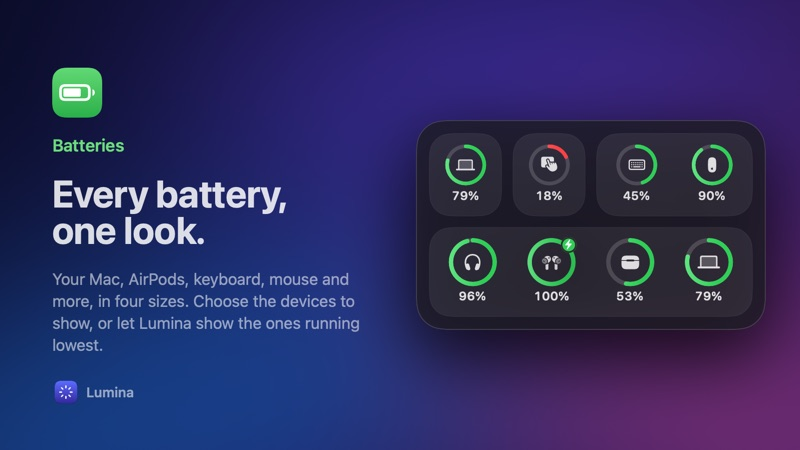
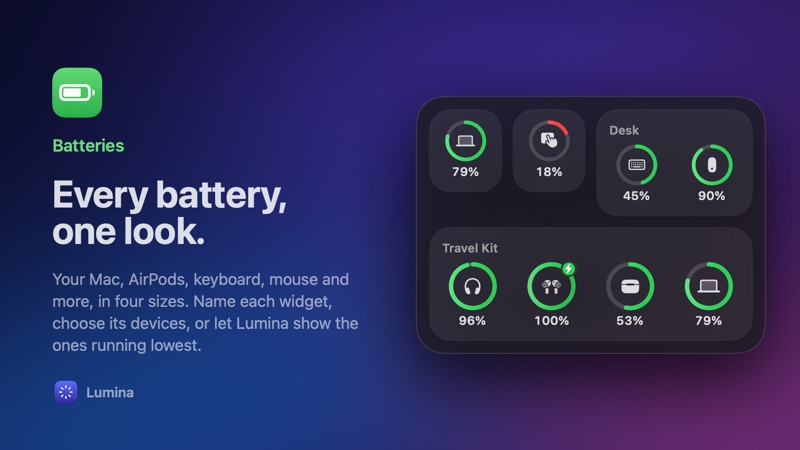
Add Media and recent features to the marketing images
A Media card (drawn sample covers, never real albums) showing Small with
two halves and one button, Medium with Album Art and Large plain; a Small
Media tile in the hero; named battery widgets (Desk, Travel Kit) in the
Batteries card; and the Library's preview well, plus scrolling, in the
Customize card. Re-rendered every image and the README gallery.

diff --git a/scripts/marketing/main.swift b/scripts/marketing/main.swift
@@ -34,12 +34,103 @@ enum DemoDevice {
 enum Tile {
     case utility(String)
     case clock(String)
-    case batteries(BatteryWidget.Size, [BatteryDevice])
+    case batteries(BatteryWidget.Size, [BatteryDevice], name: String? = nil)
+    /// A media widget, playing a demo track.
+    case media(MediaWidget, DemoTrack)
 }
 
 /// Battery widget ID → the demo devices it shows.
 @MainActor enum DemoBatteries {
     static var byWidget: [String: [BatteryDevice]] = [:]
+}
+
+/// Made-up music with drawn covers: renders never show real albums, nor
+/// depend on what's playing on this Mac.
+struct DemoTrack {
+    let title: String
+    let artist: String
+    let album: String
+    let duration: Double
+    let elapsed: Double
+    var isPlaying = true
+    /// The cover's colors and the shape drawn on it.
+    let colors: [Color]
+    let motif: Motif
+
+    enum Motif { case sun, waves, rings }
+
+    static let midnight = DemoTrack(
+        title: "Midnight Drive", artist: "Neon Coast", album: "Afterglow", duration: 221, elapsed: 84,
+        colors: [Color(red: 0.98, green: 0.42, blue: 0.40), Color(red: 0.45, green: 0.16, blue: 0.62)], motif: .sun
+    )
+    static let harbour = DemoTrack(
+        title: "Paper Boats", artist: "The Quiet Hours", album: "Harbour Lights", duration: 194, elapsed: 121,
+        colors: [Color(red: 0.25, green: 0.75, blue: 0.80), Color(red: 0.07, green: 0.22, blue: 0.45)], motif: .waves
+    )
+    static let orbit = DemoTrack(
+        title: "Slow Orbit", artist: "Lumen Field", album: "Satellites", duration: 263, elapsed: 32,
+        colors: [Color(red: 1.0, green: 0.78, blue: 0.30), Color(red: 0.90, green: 0.32, blue: 0.20)], motif: .rings
+    )
+
+    @MainActor
+    var display: MediaDisplay {
+        MediaDisplay(
+            nowPlaying: NowPlaying(
+                title: title, artist: artist, album: album, duration: duration,
+                elapsed: elapsed, timestamp: .now, rate: isPlaying ? 1 : 0, isPlaying: isPlaying, pid: 0
+            ),
+            artwork: cover(),
+            appName: "Music",
+            appIcon: NSWorkspace.shared.icon(forFile: "/System/Applications/Music.app")
+        )
+    }
+
+    /// The cover, drawn at 600 × 600.
+    @MainActor
+    private func cover() -> NSImage {
+        let art = ZStack {
+            LinearGradient(colors: colors, startPoint: .topLeading, endPoint: .bottomTrailing)
+            switch motif {
+            case .sun:
+                Circle().fill(.white.opacity(0.9)).frame(width: 230).offset(y: 70)
+                ForEach(0..<5) { index in
+                    Rectangle().fill(colors[1].opacity(0.85)).frame(height: 14).offset(y: 120 + CGFloat(index) * 34)
+                }
+            case .waves:
+                ForEach(0..<6) { index in
+                    Capsule().stroke(.white.opacity(0.75 - Double(index) * 0.1), lineWidth: 12)
+                        .frame(width: 520, height: 120).offset(y: CGFloat(index) * 52 - 60)
+                }
+            case .rings:
+                ForEach(0..<5) { index in
+                    Circle().stroke(.white.opacity(0.85 - Double(index) * 0.14), lineWidth: 10)
+                        .frame(width: 90 + CGFloat(index) * 90)
+                }
+                Circle().fill(.white).frame(width: 40)
+            }
+        }
+        .frame(width: 600, height: 600)
+        .clipped()
+        let renderer = ImageRenderer(content: art)
+        renderer.scale = 1
+        return renderer.nsImage ?? NSImage()
+    }
+}
+
+/// Media widget ID → the demo track it plays.
+@MainActor enum DemoMedia {
+    static var byWidget: [String: MediaDisplay] = [:]
+}
+
+extension MediaWidget {
+    /// A widget for the renders: Small with its controls, Medium and Large
+    /// with or without the album art behind.
+    static func demo(_ size: Size, artBackground: Bool = false, controls: SmallControls? = nil) -> MediaWidget {
+        var widget = MediaWidget(id: "new", size: size)
+        widget.showsArtBackground = artBackground
+        widget.smallControls = controls
+        return widget
+    }
 }
 
 /// A store showing exactly `tiles`, in order. Uses a throwaway defaults
@@ -53,9 +144,13 @@ func makeStore(_ tiles: [Tile], more: [Tile] = []) -> UtilityStore {
             return id
         case .clock(let code):
             return store.addWorldClock(for: WorldClockCity.city(withCode: code)!)
-        case .batteries(let size, let devices):
-            let id = store.addBatteryWidget(size: size)
+        case .batteries(let size, let devices, let name):
+            let id = store.addBatteryWidget(BatteryWidget(id: "new", size: size, name: name))
             DemoBatteries.byWidget[id] = devices
+            return id
+        case .media(let widget, let track):
+            let id = store.addMediaWidget(widget)
+            DemoMedia.byWidget[id] = track.display
             return id
         }
     }
@@ -88,6 +183,8 @@ let heroTiles: [Tile] = [
     .utility("appearance"),
     .utility("keyboardLock"),
     .utility("quitAll"),
+    // Fills Keyboard Lock and Quit All's row.
+    .media(.demo(.small, controls: .playPauseNext), .orbit),
 ]
 
 /// The hero's panel: `heroTiles`, plus a tile for every feature it doesn't
@@ -96,12 +193,13 @@ let heroTiles: [Tile] = [
 @MainActor
 func heroLayout() -> [Tile] {
     var utilityIDs = Set<String>()
-    var hasClock = false, hasBatteries = false
+    var hasClock = false, hasBatteries = false, hasMedia = false
     for tile in heroTiles {
         switch tile {
         case .utility(let id): utilityIDs.insert(id)
         case .clock: hasClock = true
         case .batteries: hasBatteries = true
+        case .media: hasMedia = true
         }
     }
     var tiles = heroTiles
@@ -110,6 +208,7 @@ func heroLayout() -> [Tile] {
         let isShown = !utilityIDs.isDisjoint(with: feature.utilityIDs)
             || (feature.newItem == .worldClock && hasClock)
             || (feature.newItem == .batteries && hasBatteries)
+            || (feature.newItem == .media && hasMedia)
         if !isShown, let tile = feature.tiles.first {
             tiles.append(tile)
         }
@@ -179,13 +278,25 @@ struct Feature {
         Feature(
             slug: "batteries", name: "Batteries", symbol: "battery.75percent", tint: .green,
             headline: "Every battery, one look.",
-            detail: "Your Mac, AirPods, keyboard, mouse and more, in four sizes. Choose the devices to show, or let Lumina show the ones running lowest.",
+            detail: "Your Mac, AirPods, keyboard, mouse and more, in four sizes. Name each widget, choose its devices, or let Lumina show the ones running lowest.",
             newItem: .batteries,
             tiles: [
                 .batteries(.small, [DemoDevice.mac]),
                 .batteries(.small, [DemoDevice.trackpad]),
-                .batteries(.medium, [DemoDevice.keyboard, DemoDevice.mouse]),
-                .batteries(.large, [DemoDevice.headphones, DemoDevice.airPods, DemoDevice.airPodsCase, DemoDevice.mac]),
+                .batteries(.medium, [DemoDevice.keyboard, DemoDevice.mouse], name: "Desk"),
+                .batteries(.large, [DemoDevice.headphones, DemoDevice.airPods, DemoDevice.airPodsCase, DemoDevice.mac], name: "Travel Kit"),
+            ]
+        ),
+        Feature(
+            slug: "media", name: "Media", symbol: "music.note", tint: .pink,
+            headline: "What’s playing, at hand.",
+            detail: "Album art, the app it’s playing in, and play, pause, skip and seek, for Music, Spotify, podcasts or a browser. Three sizes, with the cover as the background if you like.",
+            newItem: .media,
+            tiles: [
+                .media(.demo(.medium, artBackground: true), .midnight),
+                .media(.demo(.small, controls: .playPauseNext), .orbit),
+                .media(.demo(.small, controls: .playPause), .harbour),
+                .media(.demo(.large), .harbour),
             ]
         ),
         Feature(
@@ -248,7 +359,7 @@ struct Feature {
         Feature(
             slug: "customize", name: "Customize", symbol: "square.grid.2x2.fill", tint: .purple,
             headline: "Make it yours.",
-            detail: "Drag tiles into any order, hide the ones you don’t need, and add world clocks and batteries from the Library.",
+            detail: "Drag tiles into any order, hide the ones you don’t need, and add media, world clocks and batteries from the Library, previewing each first. However many you add, the panel scrolls rather than running off the screen.",
             tiles: [.utility("caffeine"), .utility("stayGreen"), .clock("MAD"), .batteries(.medium, [DemoDevice.keyboard, DemoDevice.mouse]), .utility("pomodoro")],
             isEditing: true
         ),
@@ -403,7 +514,9 @@ struct TileContent: View {
 
     var body: some View {
         if let widget = store.batteryWidget(withID: utility.id) {
-            BatteryWidgetContent(size: widget.size, devices: DemoBatteries.byWidget[utility.id] ?? [])
+            BatteryWidgetContent(size: widget.size, devices: DemoBatteries.byWidget[utility.id] ?? [], name: widget.title)
+        } else if let widget = store.mediaWidget(withID: utility.id) {
+            MediaWidgetContent(widget: widget, display: DemoMedia.byWidget[utility.id])
         } else {
             utility.content()
         }
@@ -580,14 +693,11 @@ struct LibraryReplica: View {
             .background(Color.panelTrack, in: RoundedRectangle(cornerRadius: 8, style: .continuous))
 
             section("Hidden")
-            ForEach(Array(hidden), id: \.id) { row($0.symbol, $0.name, $0.size.title) }
+            ForEach(Array(hidden), id: \.id) { row($0.symbol, $0.name, $0.size.title, isPreviewed: $0.id == previewed?.id) }
             section("Add New").padding(.top, 8)
             ForEach(LibraryDrag.NewItem.allCases, id: \.self) { row($0.symbol, $0.title, $0.detail) }
             Spacer(minLength: 0)
-            Text("Drag into the panel or click +")
-                .font(.system(size: 10))
-                .foregroundStyle(.tertiary)
-                .frame(maxWidth: .infinity)
+            if let previewed { well(previewed) }
         }
         .padding(12)
         .frame(maxHeight: .infinity, alignment: .top)
@@ -601,7 +711,37 @@ struct LibraryReplica: View {
             .padding(.top, 4)
     }
 
-    private func row(_ symbol: String, _ title: String, _ detail: String) -> some View {
+    /// The row under the pointer: a half tile, so it fits the well.
+    private var previewed: Utility? {
+        store.hiddenUtilities.prefix(4).first { $0.size == .half } ?? store.hiddenUtilities.first
+    }
+
+    /// The Library's preview well, showing the pointed-at row's tile.
+    private func well(_ utility: Utility) -> some View {
+        let width = TileGridMetrics(width: 296, spacing: 10).width(forSpan: utility.size.span)
+        let scale = min(1, 186 / width)
+        return VStack(spacing: 8) {
+            ModuleTile(isEditing: false, isLifted: false) {
+                utility.content()
+            } badges: {
+                EmptyView()
+            }
+            .frame(width: width)
+            .scaleEffect(scale)
+            .frame(width: width * scale, height: 80 * scale)
+            .frame(maxHeight: .infinity)
+            VStack(spacing: 1) {
+                Text("\(utility.name) · \(utility.size.title)").font(.system(size: 10, weight: .medium))
+                Text("Click + or drag it into the panel").font(.system(size: 10)).foregroundStyle(.tertiary)
+            }
+        }
+        .padding(10)
+        .frame(maxWidth: .infinity, minHeight: 160, maxHeight: 160)
+        .background(Color.panelTrack.opacity(0.5), in: RoundedRectangle(cornerRadius: 16, style: .continuous))
+        .environment(store)
+    }
+
+    private func row(_ symbol: String, _ title: String, _ detail: String, isPreviewed: Bool = false) -> some View {
         HStack(spacing: 8) {
             Image(systemName: symbol)
                 .font(.system(size: 12, weight: .medium))
@@ -617,6 +757,9 @@ struct LibraryReplica: View {
                 .foregroundStyle(.green)
         }
         .padding(.vertical, 4)
+        .padding(.horizontal, 6)
+        .background(RoundedRectangle(cornerRadius: 8, style: .continuous).fill(Color.panelTrack.opacity(isPreviewed ? 0.7 : 0)))
+        .padding(.horizontal, -6)
     }
 }
 

diff --git a/README.md b/README.md
@@ -34,22 +34,25 @@
 </tr>
 <tr>
 <td width="50%"><a href="docs/marketing/features/batteries.png"><img src="docs/marketing/readme/features/batteries.jpg" alt="Batteries: Every battery, one look."></a></td>
+<td width="50%"><a href="docs/marketing/features/media.png"><img src="docs/marketing/readme/features/media.jpg" alt="Media: What’s playing, at hand."></a></td>
+</tr>
+<tr>
 <td width="50%"><a href="docs/marketing/features/system.png"><img src="docs/marketing/readme/features/system.jpg" alt="System: Your Mac’s vitals."></a></td>
-</tr>
-<tr>
 <td width="50%"><a href="docs/marketing/features/appearance.png"><img src="docs/marketing/readme/features/appearance.jpg" alt="Appearance: Light or dark, instantly."></a></td>
+</tr>
+<tr>
 <td width="50%"><a href="docs/marketing/features/keyboard-lock.png"><img src="docs/marketing/readme/features/keyboard-lock.jpg" alt="Keyboard Lock: Clean your keyboard, not your document."></a></td>
-</tr>
-<tr>
 <td width="50%"><a href="docs/marketing/features/quit-all.png"><img src="docs/marketing/readme/features/quit-all.jpg" alt="Quit All: A fresh start, in one click."></a></td>
+</tr>
+<tr>
 <td width="50%"><a href="docs/marketing/features/cleanup.png"><img src="docs/marketing/readme/features/cleanup.jpg" alt="Cleanup: Junk out, space back."></a></td>
-</tr>
-<tr>
 <td width="50%"><a href="docs/marketing/features/uninstaller.png"><img src="docs/marketing/readme/features/uninstaller.jpg" alt="Uninstaller: Gone means gone."></a></td>
-<td width="50%"><a href="docs/marketing/features/quick-actions.png"><img src="docs/marketing/readme/features/quick-actions.jpg" alt="Quick Actions: One click, done."></a></td>
 </tr>
 <tr>
+<td width="50%"><a href="docs/marketing/features/quick-actions.png"><img src="docs/marketing/readme/features/quick-actions.jpg" alt="Quick Actions: One click, done."></a></td>
 <td width="50%"><a href="docs/marketing/features/more-section.png"><img src="docs/marketing/readme/features/more-section.jpg" alt="More: Ready, out of sight."></a></td>
+</tr>
+<tr>
 <td width="50%"><a href="docs/marketing/features/customize.png"><img src="docs/marketing/readme/features/customize.jpg" alt="Customize: Make it yours."></a></td>
 </tr>
 </table>
